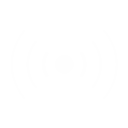
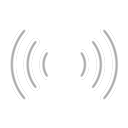
small adjustments

diff --git a/js/ATON.vroadcast.js b/js/ATON.vroadcast.js
@@ -23,7 +23,7 @@ ATON.vroadcast._bPOLdirty = true;
 ATON.vroadcast._bMediaRecording = false;
 ATON.vroadcast._bMediaStreaming = false;
 ATON.vroadcast._auStreamInterval = 250;
-ATON.vroadcast.minAuVol = 8;
+ATON.vroadcast.minAuVol = 5;
 
 // custom events
 //ATON.vroadcast.onIDassigned = undefined;
@@ -1176,7 +1176,7 @@ ATON.vroadcast._registerSocketHandlers = function(){
 
         //console.log(data.vol);
 
-        let v = 0.5 + (data.vol * 0.05);
+        let v = 0.5 + (data.vol * 0.02);
         //console.log(v);
 
         osg.mat4.fromScaling( u._mtAUI.getMatrix(), [v,v,v]);
